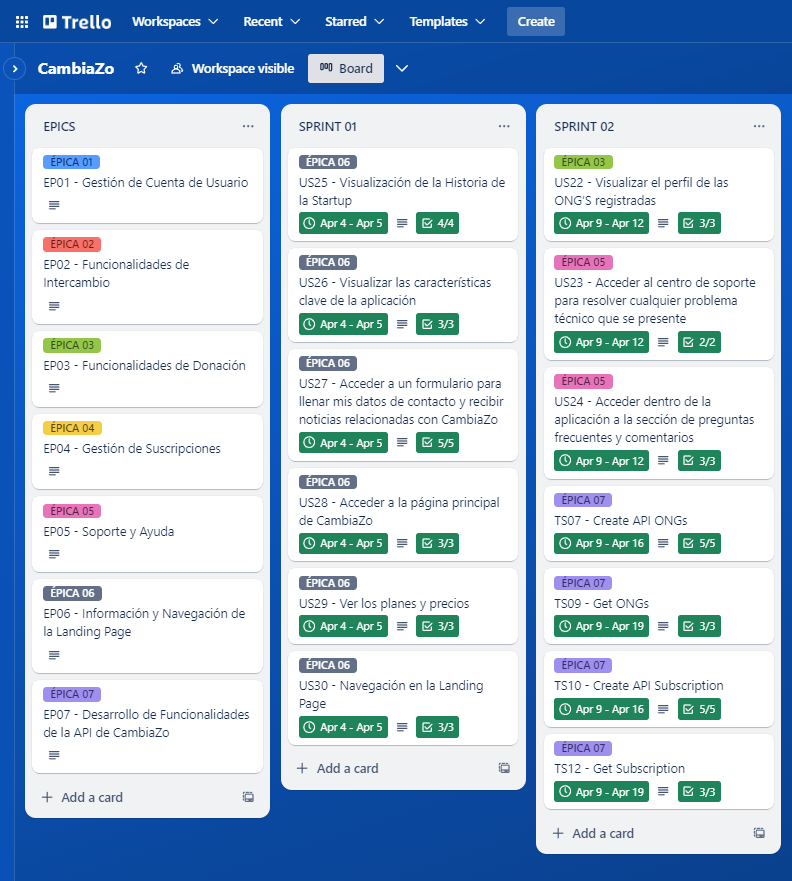
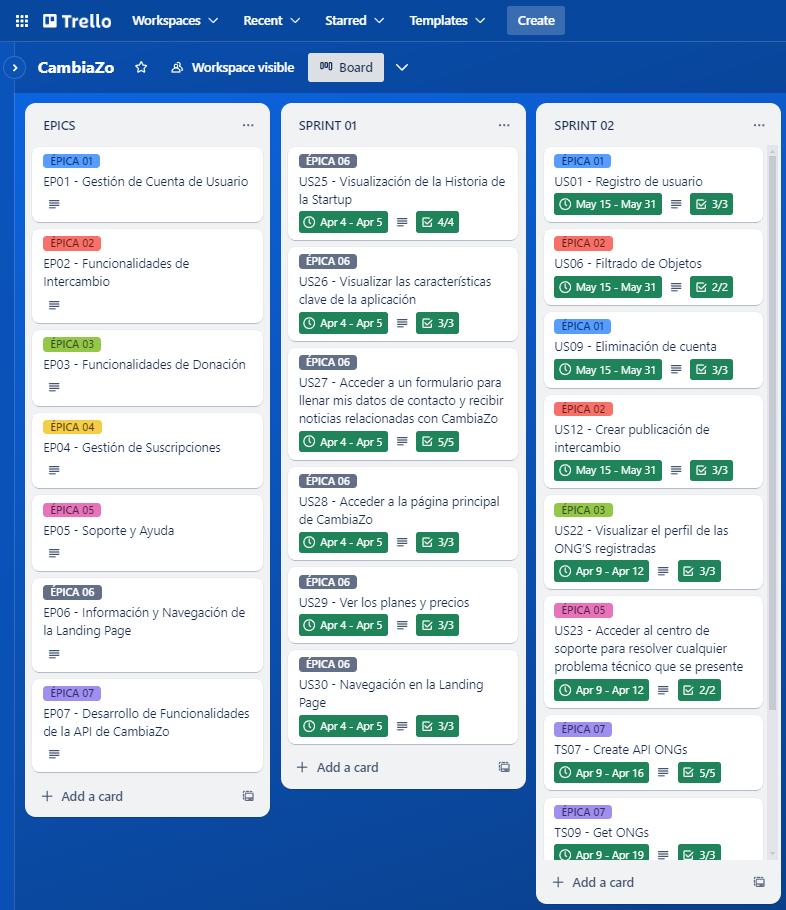
Fix: Sprint 2 Backlog section
In this part we fixed the sprint 2 backlog section.

diff --git a/README.md b/README.md
@@ -3973,11 +3973,11 @@ A continuación se evidencia la distribución, organización y planeamiento del 
 </tr>
   <tr>
     <td>Sprint 2 Velocity</td>
-    <td>25 Story Points</td>
+    <td>45 Story Points</td>
   </tr>
   <tr>
     <td>Sum of Story Points</td>
-    <td>25 Story Points</td>
+    <td>43 Story Points</td>
   </tr>
 </table><br><br>
 
@@ -4010,9 +4010,49 @@ Enlace: [Sprint Backlog 2 en Trello](https://trello.com/invite/b/UWgu5h9R/ATTI94
     <td>Status (To-do / InProcess / ToReview / Done)</td>
   </tr>
   <tr>
+    <td rowspan="1">US01</td>
+    <td rowspan="1">Registro de usuario<br></td>
+    <td>WI-01</td>
+    <td>Sección para nuevos usuarios</td>
+    <td>Implementación de una sección de registro donde nuevos usuarios puedan sumarse a CambiaZo.</td>
+    <td>3</td>
+    <td>Joseph Huamani</td>
+    <td>Done</td>
+  </tr>
+  <tr>
+    <td rowspan="1">US06</td>
+    <td rowspan="1">Filtrado de Objetos<br></td>
+    <td>WI-02</td>
+    <td>Implementación de un filtro de búsqueda</td>
+    <td>Añadir un filtro de búsqueda para que los usuarios puedan encontrar de forma más rápida los objetos de su interés.</td>
+    <td>5</td>
+    <td>Mathias Mendoza</td>
+    <td>Done</td>
+  </tr>
+  <tr>
+    <td rowspan="1">US09</td>
+    <td rowspan="1">Eliminación de cuenta<br></td>
+    <td>WI-03</td>
+    <td>Opción para eliminar definitivamente una cuenta</td>
+    <td>Adición de un botón que permita eliminar la cuenta del usuario de forma rápida y sencilla.</td>
+    <td>5</td>
+    <td>Ian Santisteban</td>
+    <td>Done</td>
+  </tr>
+  <tr>
+    <td rowspan="1">US12</td>
+    <td rowspan="1">Crear publicación de intercambio<br></td>
+    <td>WI-04</td>
+    <td>Opción para publicar nuevos objetos de trueque</td>
+    <td>Creación de una sección en la que los usuarios registrados puedan subir objetos que quieran intercambiar.</td>
+    <td>5</td>
+    <td>Andrés Valle</td>
+    <td>Done</td>
+  </tr>
+  <tr>
     <td rowspan="1">US22</td>
     <td rowspan="1">Visualizar el perfil de las ONG’S registradas<br></td>
-    <td>WI-01</td>
+    <td>WI-05</td>
     <td>Sección “Sección ONG’s”</td>
     <td>Implementación de la sección “ONG’s”.</td>
     <td>3</td>
@@ -4023,7 +4063,7 @@ Enlace: [Sprint Backlog 2 en Trello](https://trello.com/invite/b/UWgu5h9R/ATTI94
     <td rowspan="1">US23</td>
     <td rowspan="1"> Acceder al centro de soporte para resolver cualquier problema técnico que se presente
     </td>
-    <td>WI-02</td>
+    <td>WI-06</td>
     <td> Sección “Centro de Soporte”
     </td>
     <td> Desarrollo de la sección donde uno puede solicitar ponerse en contacto con el centro de soporte ante algún problema técnico. </td>
@@ -4034,7 +4074,7 @@ Enlace: [Sprint Backlog 2 en Trello](https://trello.com/invite/b/UWgu5h9R/ATTI94
   <tr>
     <td rowspan="1">US24</td>
     <td rowspan="1"> Acceder dentro de la aplicación a la sección de preguntas frecuentes y comentarios </td>
-    <td>WI-03</td>
+    <td>WI-07</td>
     <td> Sección “Preguntas frecuentes y comentarios” </td>
     <td> Desarrollo de la sección en la que se puede visualizar las preguntas que frecuentemente hacen los usuarios de CambiaZo y los comentarios que dejan de la aplicación web. </td>
     <td>3</td>
@@ -4044,7 +4084,7 @@ Enlace: [Sprint Backlog 2 en Trello](https://trello.com/invite/b/UWgu5h9R/ATTI94
   <tr>
     <td rowspan="1"> TS07 </td>
     <td rowspan="1"> Create API ONGs </td>
-    <td>WI-04</td>
+    <td>WI-08</td>
     <td> Crear la API que contiene información de las ONG’s </td>
     <td> Crear una API, en la cual se van a ingresar datos de varias ONG’s que se encuentran en el país, de tal modo que en esta API se tengan todos los datos almacenados de la ONG </td>
     <td>5</td>
@@ -4054,7 +4094,7 @@ Enlace: [Sprint Backlog 2 en Trello](https://trello.com/invite/b/UWgu5h9R/ATTI94
   <tr>
     <td rowspan="1">TS09</td>
     <td rowspan="1"> Get ONGs </td>
-    <td>WI-05</td>
+    <td>WI-09</td>
     <td> Obtener los datos de la API de ONG’s </td>
     <td> Se crea una función tipo GET para obtener todos los valores almacenados en la API ONG’s. </td>
     <td>3</td>
@@ -4064,7 +4104,7 @@ Enlace: [Sprint Backlog 2 en Trello](https://trello.com/invite/b/UWgu5h9R/ATTI94
   <tr>
     <td rowspan="1">TS10</td>
     <td rowspan="1"> Create API Subscription</td>
-    <td>WI-06</td>
+    <td>WI-10</td>
     <td> Crear la API que contiene información de los planes de suscripción </td>
     <td> Crear una API, en la cual se van a ingresar los planes de suscripción de CambiaZo, de tal modo que en esta API se tengan todos los datos almacenados de los planes.</td>
     <td>5</td>
@@ -4074,7 +4114,7 @@ Enlace: [Sprint Backlog 2 en Trello](https://trello.com/invite/b/UWgu5h9R/ATTI94
   <tr>
     <td rowspan="1">TS12</td>
     <td rowspan="1">Get Subscription</td>
-    <td>WI-07</td>
+    <td>WI-11</td>
     <td>Obtener los datos de la API de planes de suscripción</td>
     <td>Se crea una función tipo GET para obtener todos los valores almacenados en la API de planes de suscripción.</td>
     <td>3</td>
